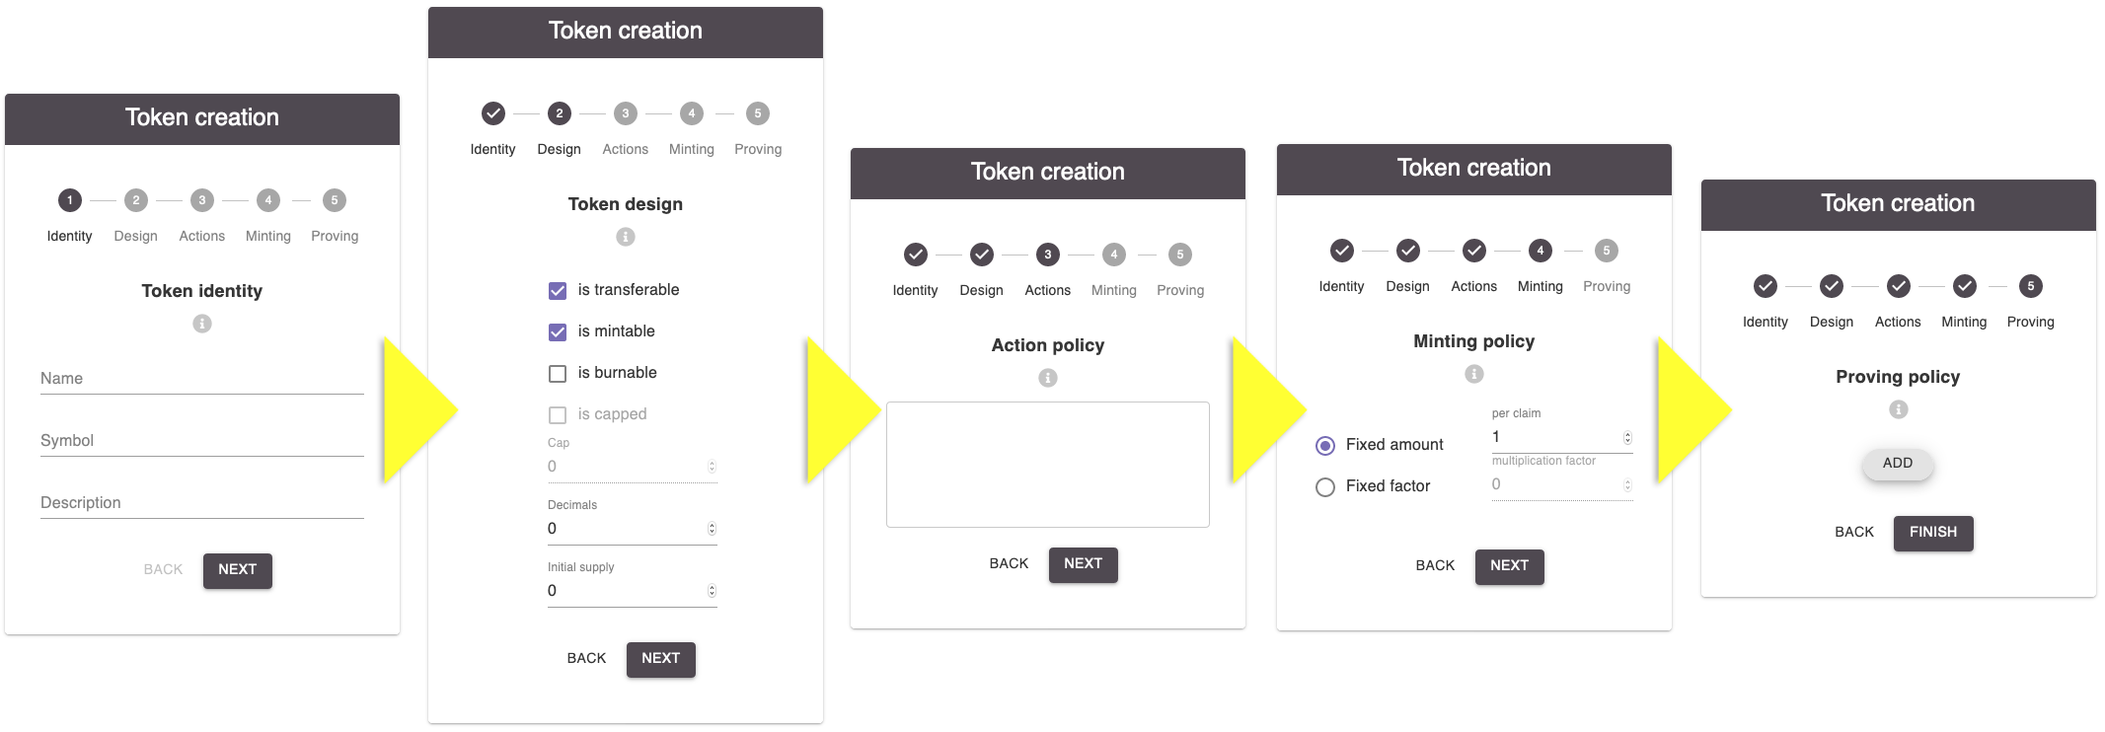
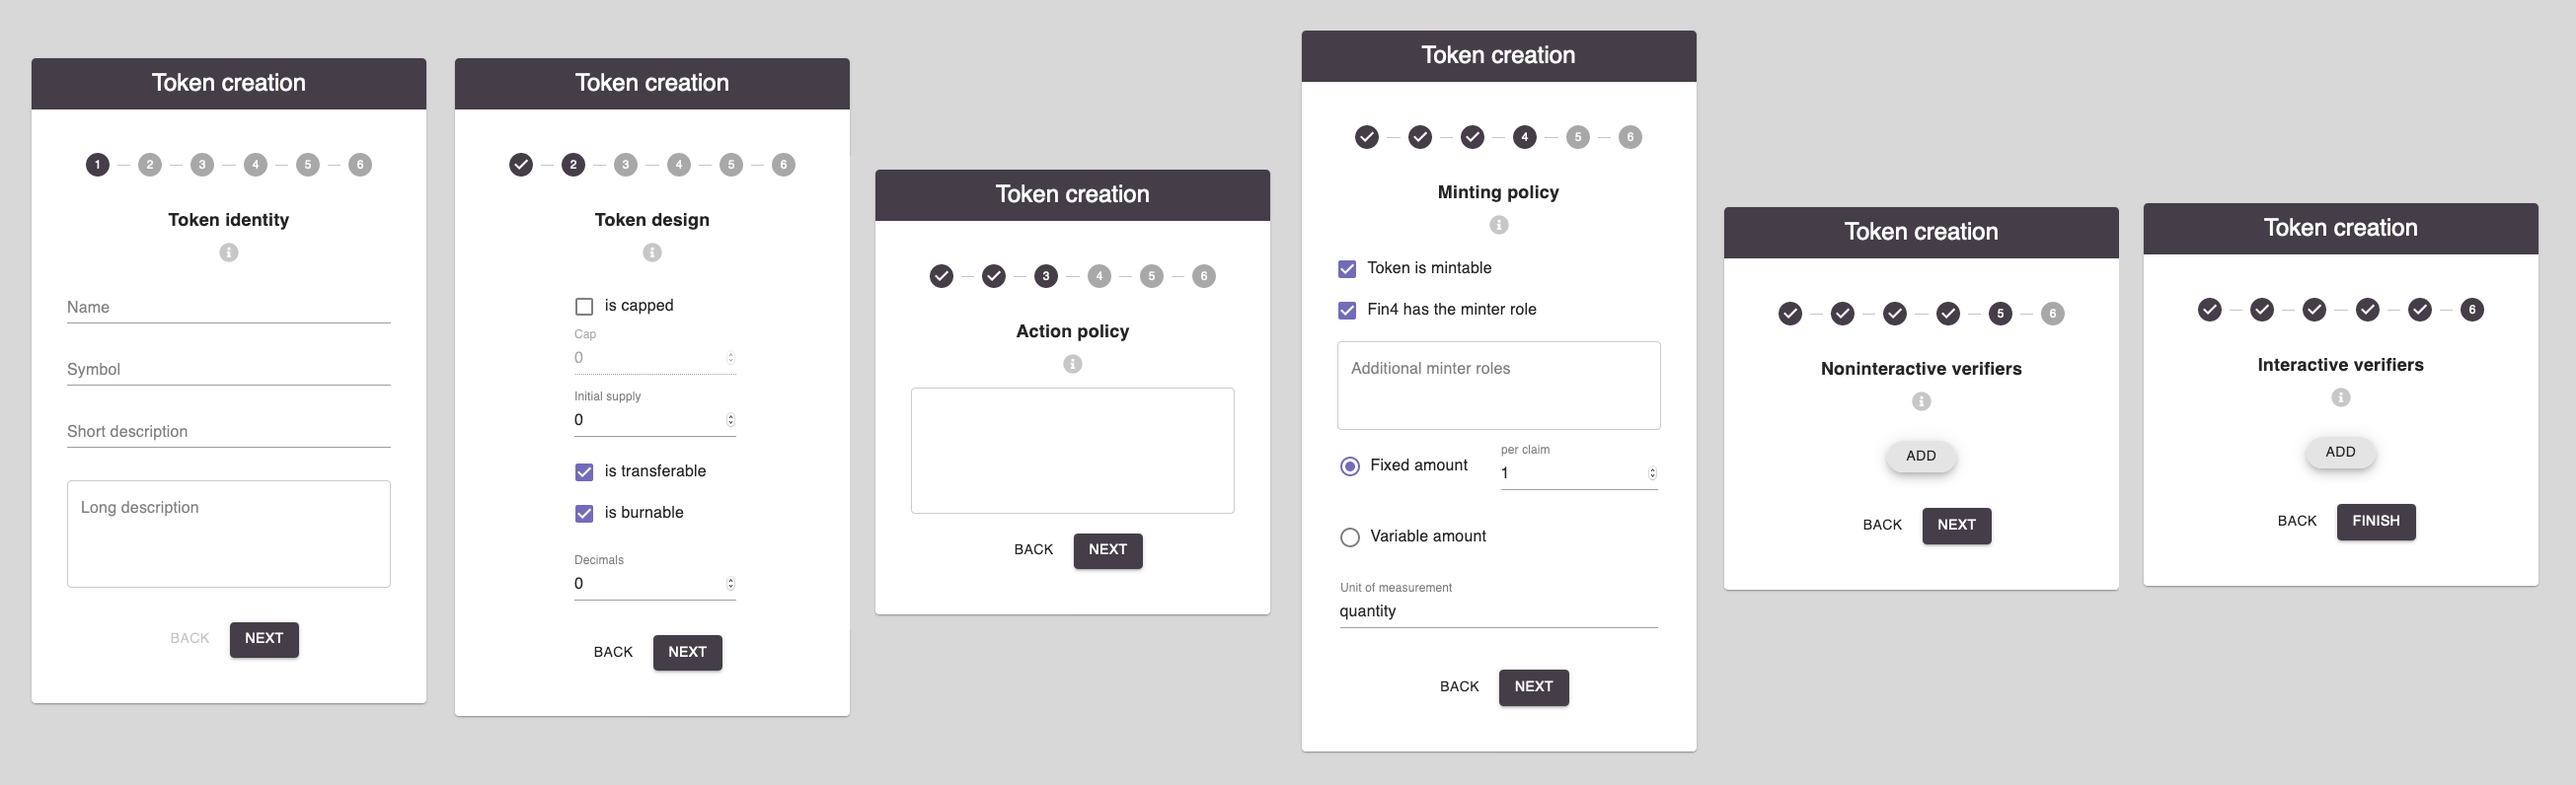
Update create tokens site

diff --git a/docs/create-tokens.rst b/docs/create-tokens.rst
@@ -24,7 +24,7 @@ The effort put into creating a token can range from a quick 1-min-clicktrough to
 - Uploading a token draft in JSON format
 - Copying an existing token design as template
 
-The last two will import a token creation draft showing up at the bottom of the box. The first option will take you directly into the token creation wizard. It consists of 5 steps: *Identity*, *Design*, *Actions*, *Minting* and *Proving*. In each step, an info box can be opened that provides explanations.
+The last two will import a token creation draft showing up at the bottom of the box. The first option will take you directly into the token creation wizard. It consists of 6 steps: *Token identity*, *Token design*, *Action policy*, *Minting policy*, *Noninteractive verifiers* and *Interactive verifiers*. In each step, an info box can be opened that provides explanations.
 
 .. image:: images/WizardSteps.png
    :scale: 37%
@@ -32,4 +32,4 @@ The last two will import a token creation draft showing up at the bottom of the 
 
 Note that at any point you can leave the wizard and your progess will be stored as draft. Drafts can be used to resume the process later on or to download, share and import them.
 
-Once the 5 steps are completed, the token can be created on the blockchain. One ore more transactions have to be confirmed for that. One for the token-creation itself and one for each proof that has parameters. Until all proof-parameterization transactions are confirmed, the token will remain in a disabled state.
+Once the 6 steps are completed, the token can be created on the blockchain. Two ore more transactions have to be confirmed for that. Two for the token-creation itself and one for each proof that has parameters. Until all proof-parameterization transactions are confirmed, the token will remain in a disabled state.
